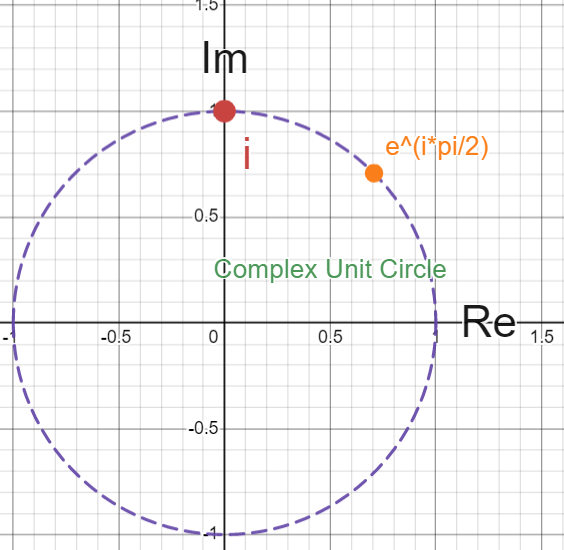
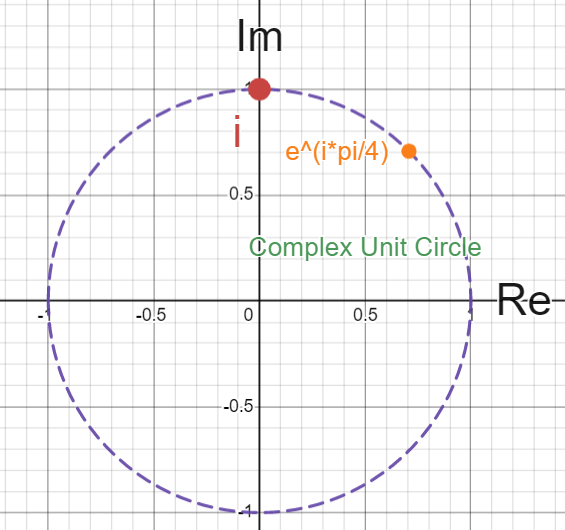
8.6.15: Minor important changes

Changed region(s): [[0.0, 0.0, 1.0, 1.0]]

diff --git a/Posts/ComplexRotations.md b/Posts/ComplexRotations.md
@@ -61,16 +61,16 @@ As mentioned above, we can see that the imaginary unit cannot be found anywhere 
 
 ![Real Number Line]({{ site.imgurl }}/RealNumberLine.png)
 
-However, we notice that a value can contain both a purely real component and a imaginary component, dividing this new form of number into 2 dimensions. This 2-dimensional number is what we call a *Complex Number* as seen above.
+However, we notice that a value can contain both a purely real component and a imaginary component, dividing this new form of number into 2 dimensions. This 2-dimensional number is what we call a *complex number* as defined above.
 
-**Important Note:** Any number that is either purely real or purely a multiple of the imaginary unit (ex: \\(7.5\\), \\(4i\\), \\(0\\)) is still a complex number as either the \\(a\\) or \\(b\\) (or both) in \\(a+bi\\) can be the real number 0.
+**Note:** Any number that is either purely real or purely a multiple of the imaginary unit (ex: \\(7.5\\), \\(4i\\), \\(0\\)) is still a complex number as either the \\(a\\) or \\(b\\) (or both) in \\(a+bi\\) can be the real number \\(0\\).
 
 To represent real valued numbers we can plot them on a 1-dimensional line like the one seen just above. For complex numbers we can do a similar thing, using a 2-dimensional plane to show both real and imaginary components.
 
 ![Complex Plane]({{ site.imgurl }}/ComplexPlane.svg)
 
 **Note:** In this representation, you can think of a complex number \\(z=x+yi\\) as having "\\(x\\) and \\(y\\) coordinates" on a standard cartesian xy-plot.
-Using this was actually the key way of thinking for solving a homework problem in one of my math classes this past year. For the more advanced, the problem was, with regards to Group Theory: 
+Using this was actually the key way of thinking for solving a homework problem in one of my math classes this past year. For the more experienced, the problem was, with regards to Group Theory: 
 
 \\[Prove \quad \mathbb{C}\cong \mathbb{R}^{2}\\]
 
@@ -128,7 +128,7 @@ Using this form to represent values further strengthens the idea that multiplyin
 
 Let's take two numbers lying on the complex unit circle, \\(z_{1}\\) and \\(z_{2}\\), and multiply them.
 
-We know we can represent them both using the angles they make with the positive real axis, in the form shown by Euler's Formula, so lets say \\(z_{1}=e^{i\theta_{1}}\\) and \\(z_{2}=e^{i\theta_{2}}) where \\(\theta_{1}\\) represents the angle that \\(z_{1}\\) makes with the positive real axis, and \\(\theta_{2}\\) defined similarly. Now we can do the following with a simple algebra trick:
+We know we can represent them both using the angles they make with the positive real axis, in the form shown by Euler's Formula, so lets say \\(z_{1}=e^{i\theta_{1}}\\) and \\(z_{2}=e^{i\theta_{2}}\\) where \\(\theta_{1}\\) represents the angle that \\(z_{1}\\) makes with the positive real axis, and \\(\theta_{2}\\) defined similarly. Now we can do the following with a simple algebra trick:
 
 \\[z_{1} \times z_{2} = e^{i\theta_{1}} \times e^{i\theta_{2}}\\]
 \\[= e^{(i\theta_{1}) + (i\theta_{2})} = e^{i(\theta_{1} + \theta_{2})}\\]
@@ -164,7 +164,7 @@ And that's the second question I posed at the start of this post! Really well do
 
 ### Solving Complex Problems
 
-Lets take a look at the third problem I posed: \\(z=\sqrt{i};\quad\quad\\)
+Lets take a look at the third problem I posed: \\(z=\sqrt{i}\\)
 
 As promised, we already have all of the tools that we need to find an algebraic expression for \\(z\\).
 
@@ -172,13 +172,15 @@ Lets take a look at what it means to take the square root of something. When loo
 
 Well we previously built up the intuition for multiplying complex numbers, so now all we need to do is find this value that fits this criterion.
 
-We know that \\(i\\) lies at the very top of the complex unit circle, so we can deduce a few things: that the radius of \\(i\\) is 1, and the angle it makes with the positive real axis is \\(\frac{\pi}{2}\\). This means we can write \\(i\\) as \\(i=1 \times e^{i\frac{\pi}{2}}\\)
+We know that \\(i\\) lies at the very top of the complex unit circle, so we can deduce a few things: that the radius of \\(i\\) is 1, and the angle it makes with the positive real axis is \\(\frac{\pi}{2}\\). This means we can write \\(i\\) as \\(1 \times e^{i\frac{\pi}{2}}\\) (some call this the *polar representation of* \\(i\\))
 
 ![i on Complex Plane]({{ site.imgurl }}/i.png)
 
 So now we need to find \\(r\\) and \\(\theta\\) for \\(z=re^{i\theta}\\) such that:
 
-\\(z^{2}=(r \times r)e^{i(\theta + \theta})=r^{2}e^{i \times 2\theta}\\) is the same as \\(i=1 \times e^{i\frac{\pi}{2}}\\)
+\\(z^{2}=(r \times r)e^{i(\theta + \theta)}=r^{2}e^{2i\theta}\quad\\) is the same as \\(\quad i=1 \times e^{i\frac{\pi}{2}}\\)
+
+So \\(r^{2}e^{2i\theta}=e^{i\frac{\pi}{2}}\\)
 
 Since this \\(r^{2}\\) determines the radius of the resulting value which has to be \\(1\\), we know \\(r\\) must also be \\(1\\).\* And from here we can also see that \\(2\theta = \frac{\pi}{2} \implies \theta = \frac{\pi}{4}\\)
 
@@ -188,7 +190,7 @@ And this is our solution! \\(e^{i\frac{\pi}{4}}\\)
 
 It should make sense that this point lies halfway up the complex unit circle between \\(i\\) and the positive real axis, because squaring a complex number doubles its angle, which in this case lands us directly on \\(i\\).
 
-\**if you want to say r could be -1, you'd be correct, but you would end up with the equivalent solution of* \\(-e^{i\frac{5\pi}{4}}\\) *or another representation of equivalent value*
+\**if you want to say r could be -1, you'd be correct! Try to convince yourself that* \\(-e^{\frac{\pi}{4}}\\) *is also a solution to this problem.*
 
 -----
 
